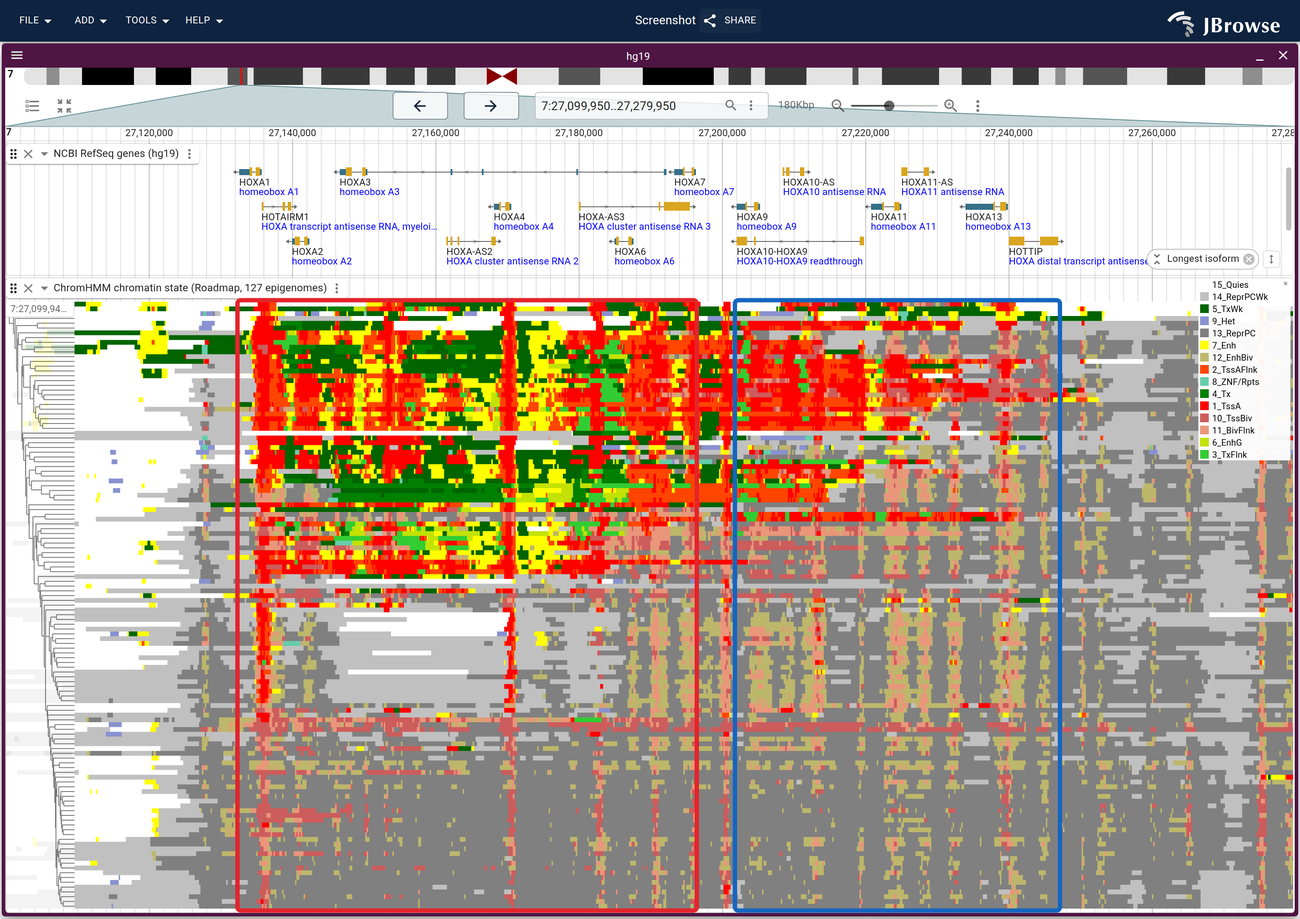
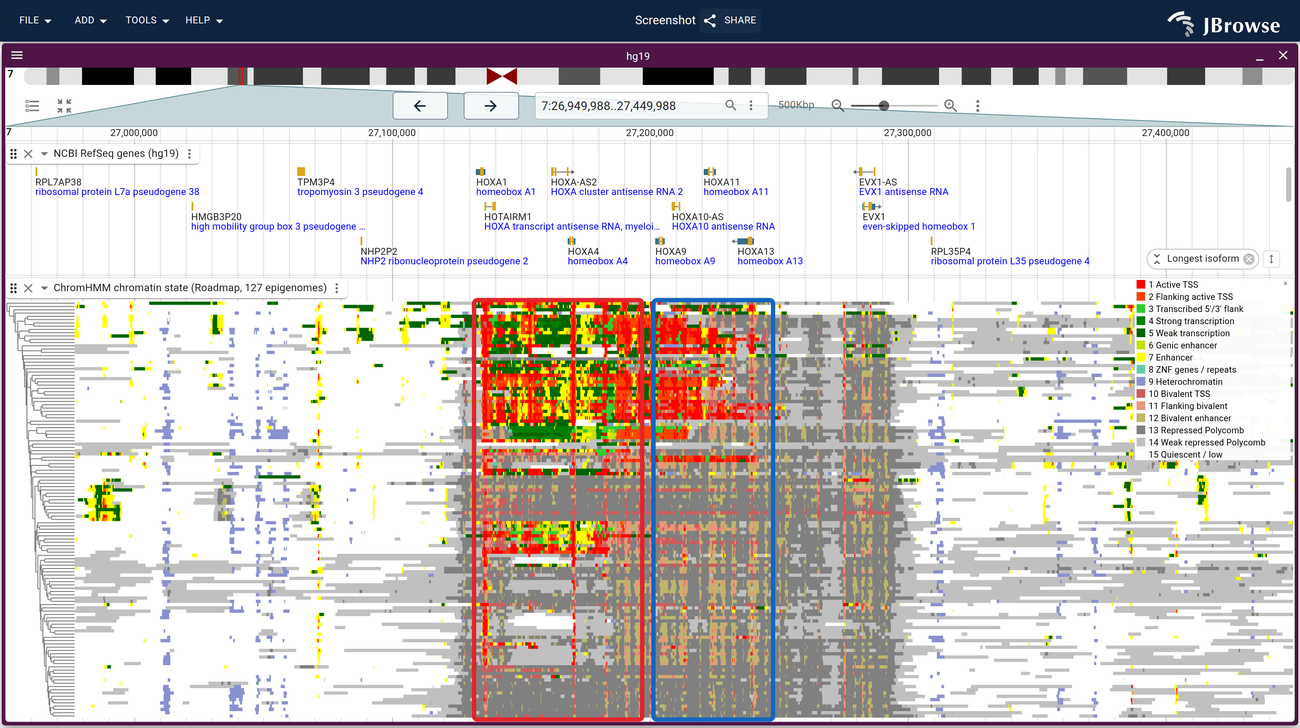
docs(website): rework both chromhmm figures on the reviewer's three asks
The 127-epigenome figure was denied as chaotic, with three specific asks, and
all three are here. Zoom: 180 kb -> 500 kb. Inside the cluster every row is fine
structure and there is no background to read it against, which is what made 127
rows of it look like noise; out here the two boxes are saturated rectangles with
~300 kb of quiescent pseudogene desert either side, so the domain has an edge.
Wider than this and the clustering starts separating rows on the flanks instead
of on HOXA. Legend: the Roadmap file names its states `15_Quies`, `14_ReprPCWk`,
`12_EnhBiv`, and the auto-derived key showed them as-is, ordered by how much of
each was on screen -- the display's `legend` slot now declares all fifteen
spelled out and in order. The colors were read out of the 705 MB bigBed by
ranged reads rather than assumed, so every swatch matches what is painted.
Height 700 -> 480: 127 rows fill whatever height they are given, so the extra
220px bought no detail.

The nine-cell-type figure was asked whether the cell types mean anything. They
do, and it is measurable off the same file. The anterior half is open in six of
the nine and shut in exactly the two blood lines and the stem line. The
posterior half is repressed in everything except HUVEC and HSMM -- endothelium
and skeletal muscle, the mesodermal pair, and the posterior genes carry a
trunk-and-limb address. So which half a row opens is that lineage's position.
[…]

diff --git a/website/src/lib/galleryLinks.generated.ts b/website/src/lib/galleryLinks.generated.ts
@@ -142,7 +142,7 @@ export const specSessionUrls: Record<string, string> = {
   "hg38_assembly_table": "?config=test_data/hg38_only.json&session=spec-%7B%22views%22%3A%5B%5D%7D&sessionName=Screenshot&adminKey=admin1234",
   "default_session_form": "?config=test_data/empty.json&session=spec-%7B%22views%22%3A%5B%5D%7D&sessionName=Screenshot&adminKey=admin1234",
   "config_not_found": "",
-  "chromhmm": "?config=test_data/config_demo.json&session=spec-%7B%22views%22%3A%5B%7B%22type%22%3A%22LinearGenomeView%22%2C%22assembly%22%3A%22hg19%22%2C%22loc%22%3A%22chr7%3A27%2C100%2C000-27%2C280%2C000%22%2C%22tracks%22%3A%5B%7B%22trackId%22%3A%22ncbi_gff_hg19%22%2C%22type%22%3A%22LinearBasicDisplay%22%2C%22showDescriptions%22%3Afalse%2C%22height%22%3A120%7D%2C%7B%22trackId%22%3A%22roadmap_chromhmm_multirow_hg19%22%2C%22type%22%3A%22LinearMultiRowFeatureDisplay%22%2C%22runClustering%22%3Atrue%2C%22height%22%3A700%7D%5D%7D%5D%7D&sessionName=Screenshot",
+  "chromhmm": "?config=test_data/config_demo.json&session=spec-%7B%22views%22%3A%5B%7B%22type%22%3A%22LinearGenomeView%22%2C%22assembly%22%3A%22hg19%22%2C%22loc%22%3A%22chr7%3A26%2C950%2C000-27%2C450%2C000%22%2C%22tracks%22%3A%5B%7B%22trackId%22%3A%22ncbi_gff_hg19%22%2C%22type%22%3A%22LinearBasicDisplay%22%2C%22showDescriptions%22%3Afalse%2C%22height%22%3A120%7D%2C%7B%22trackId%22%3A%22roadmap_chromhmm_multirow_hg19%22%2C%22type%22%3A%22LinearMultiRowFeatureDisplay%22%2C%22runClustering%22%3Atrue%2C%22height%22%3A480%7D%5D%7D%5D%7D&sessionName=Screenshot",
   "chromhmm_hoxa_9celltype": "?config=test_data/config_demo.json&session=spec-%7B%22views%22%3A%5B%7B%22type%22%3A%22LinearGenomeView%22%2C%22assembly%22%3A%22hg19%22%2C%22loc%22%3A%22chr7%3A27%2C050%2C000-27%2C300%2C000%22%2C%22tracks%22%3A%5B%7B%22trackId%22%3A%22ncbi_gff_hg19%22%2C%22type%22%3A%22LinearBasicDisplay%22%2C%22showDescriptions%22%3Afalse%2C%22height%22%3A140%7D%2C%7B%22trackId%22%3A%22broad_chromhmm_multirow_hg19%22%2C%22type%22%3A%22LinearMultiRowFeatureDisplay%22%2C%22height%22%3A360%7D%5D%7D%5D%7D&sessionName=Screenshot",
   "multirow/display_types_menu": "?config=test_data/config_demo.json&session=spec-%7B%22sessionTracks%22%3A%5B%7B%22type%22%3A%22FeatureTrack%22%2C%22trackId%22%3A%22rmsk_hg38_ucsc%22%2C%22name%22%3A%22RepeatMasker%22%2C%22assemblyNames%22%3A%5B%22hg38%22%5D%2C%22adapter%22%3A%7B%22type%22%3A%22BedTabixAdapter%22%2C%22bedGzLocation%22%3A%7B%22uri%22%3A%22https%3A%2F%2Fjbrowse.org%2Fucsc%2Fhg38%2Frmsk.bed.gz%22%2C%22locationType%22%3A%22UriLocation%22%7D%2C%22index%22%3A%7B%22indexType%22%3A%22CSI%22%2C%22location%22%3A%7B%22uri%22%3A%22https%3A%2F%2Fjbrowse.org%2Fucsc%2Fhg38%2Frmsk.bed.gz.csi%22%2C%22locationType%22%3A%22UriLocation%22%7D%7D%7D%7D%5D%2C%22views%22%3A%5B%7B%22type%22%3A%22LinearGenomeView%22%2C%22assembly%22%3A%22hg38%22%2C%22loc%22%3A%22chr17%3A45%2C700%2C000-45%2C750%2C000%22%2C%22tracks%22%3A%5B%22rmsk_hg38_ucsc%22%5D%7D%5D%7D&sessionName=Screenshot",
   "methylation/arabidopsis_wgbs_contexts": "?config=test_data/arabidopsis_methylation/config_emseq_bisulfite.json&session=spec-%7B%22sessionTracks%22%3A%5B%7B%22type%22%3A%22AlignmentsTrack%22%2C%22trackId%22%3A%22arabidopsis_wgbs_cg%22%2C%22name%22%3A%22Per-read%20WGBS%20%E2%80%94%20CpG%20context%22%2C%22assemblyNames%22%3A%5B%22arabidopsis%22%5D%2C%22adapter%22%3A%7B%22type%22%3A%22CramAdapter%22%2C%22uri%22%3A%22https%3A%2F%2Fjbrowse.org%2Fdemos%2Fbisulfite%2Farabidopsis_wgbs_bisulfite.cram%22%7D%7D%2C%7B%22type%22%3A%22AlignmentsTrack%22%2C%22trackId%22%3A%22arabidopsis_wgbs_chg%22%2C%22name%22%3A%22Per-read%20WGBS%20%E2%80%94%20CHG%20context%22%2C%22assemblyNames%22%3A%5B%22arabidopsis%22%5D%2C%22adapter%22%3A%7B%22type%22%3A%22CramAdapter%22%2C%22uri%22%3A%22https%3A%2F%2Fjbrowse.org%2Fdemos%2Fbisulfite%2Farabidopsis_wgbs_bisulfite.cram%22%7D%7D%2C%7B%22type%22%3A%22AlignmentsTrack%22%2C%22trackId%22%3A%22arabidopsis_wgbs_chh%22%2C%22name%22%3A%22Per-read%20WGBS%20%E2%80%94%20CHH%20context%22%2C%22assemblyNames%22%3A%5B%22arabidopsis%22%5D%2C%22adapter%22%3A%7B%22type%22%3A%22CramAdapter%22%2C%22uri%22%3A%22https%3A%2F%2Fjbrowse.org%2Fdemos%2Fbisulfite%2Farabidopsis_wgbs_bisulfite.cram%22%7D%7D%5D%2C%22views%22%3A%5B%7B%22type%22%3A%22LinearGenomeView%22%2C%22assembly%22%3A%22arabidopsis%22%2C%22loc%22%3A%22NC_003070.9%3A4%2C398%2C000-4%2C412%2C000%22%2C%22tracks%22%3A%5B%7B%22trackId%22%3A%22arabidopsis_genes%22%7D%2C%7B%22trackId%22%3A%22arabidopsis_methyldackel%22%2C%22type%22%3A%22MultiLinearWiggleDisplay%22%2C%22defaultRendering%22%3A%22multirowxy%22%2C%22minScore%22%3A0%2C%22maxScore%22%3A100%2C%22height%22%3A170%7D%2C%7B%22trackId%22%3A%22arabidopsis_wgbs_cg%22%2C%22type%22%3A%22LinearAlignmentsDisplay%22%2C%22colorBy%22%3A%7B%22type%22%3A%22bisulfite%22%2C%22modifications%22%3A%7B%22cytosineContext%22%3A%22CG%22%7D%7D%2C%22showCoverage%22%3Afalse%2C%22heightMode%22%3A%22fixed%22%2C%22featureHeight%22%3A3%2C%22featureSpacing%22%3A0%2C%22height%22%3A90%7D%2C%7B%22trackId%22%3A%22arabidopsis_wgbs_chg%22%2C%22type%22%3A%22LinearAlignmentsDisplay%22%2C%22colorBy%22%3A%7B%22type%22%3A%22bisulfite%22%2C%22modifications%22%3A%7B%22cytosineContext%22%3A%22CHG%22%7D%7D%2C%22showCoverage%22%3Afalse%2C%22heightMode%22%3A%22fixed%22%2C%22featureHeight%22%3A3%2C%22featureSpacing%22%3A0%2C%22height%22%3A90%7D%2C%7B%22trackId%22%3A%22arabidopsis_wgbs_chh%22%2C%22type%22%3A%22LinearAlignmentsDisplay%22%2C%22colorBy%22%3A%7B%22type%22%3A%22bisulfite%22%2C%22modifications%22%3A%7B%22cytosineContext%22%3A%22CHH%22%7D%7D%2C%22showCoverage%22%3Afalse%2C%22heightMode%22%3A%22fixed%22%2C%22featureHeight%22%3A3%2C%22featureSpacing%22%3A0%2C%22height%22%3A90%7D%5D%7D%5D%7D&sessionName=Screenshot",
@@ -216,7 +216,7 @@ export const specSessionUrls: Record<string, string> = {
   "trio-hapibd-painting": "?config=test_data/config_demo.json&session=spec-%7B%22views%22%3A%5B%7B%22type%22%3A%22LinearGenomeView%22%2C%22assembly%22%3A%22hg38%22%2C%22loc%22%3A%22chr1%3A1-248%2C956%2C422%22%2C%22tracks%22%3A%5B%7B%22trackId%22%3A%22HG02024_VN049_KHVTrio.chr1.hapibd%22%2C%22type%22%3A%22LinearMultiRowFeatureDisplay%22%2C%22height%22%3A120%7D%5D%7D%5D%7D&sessionName=Screenshot",
   "trio-crossover-paternal": "?config=test_data/config_demo.json&session=spec-%7B%22views%22%3A%5B%7B%22type%22%3A%22LinearGenomeView%22%2C%22assembly%22%3A%22hg38%22%2C%22loc%22%3A%22chr1%3A29%2C497%2C418-29%2C897%2C418%22%2C%22tracks%22%3A%5B%7B%22trackId%22%3A%22HG02024_VN049_KHVTrio.chr1.hapibd%22%2C%22type%22%3A%22LinearMultiRowFeatureDisplay%22%2C%22subtreeFilter%22%3A%5B%22Father%20hap1%22%2C%22Father%20hap2%22%5D%7D%2C%7B%22trackId%22%3A%22HG02024_VN049_KHVTrio.chr1.vcf%22%2C%22type%22%3A%22LinearMultiSampleVariantDisplay%22%2C%22renderingMode%22%3A%22phased%22%2C%22height%22%3A260%2C%22layout%22%3A%5B%7B%22name%22%3A%22HG02024%20HP0%22%2C%22sampleName%22%3A%22HG02024%22%2C%22HP%22%3A0%2C%22label%22%3A%22Child%20hap1%22%7D%2C%7B%22name%22%3A%22HG02024%20HP1%22%2C%22sampleName%22%3A%22HG02024%22%2C%22HP%22%3A1%2C%22label%22%3A%22Child%20hap2%22%7D%2C%7B%22name%22%3A%22HG02025%20HP0%22%2C%22sampleName%22%3A%22HG02025%22%2C%22HP%22%3A0%2C%22label%22%3A%22Mother%20hap1%22%7D%2C%7B%22name%22%3A%22HG02025%20HP1%22%2C%22sampleName%22%3A%22HG02025%22%2C%22HP%22%3A1%2C%22label%22%3A%22Mother%20hap2%22%7D%2C%7B%22name%22%3A%22HG02026%20HP0%22%2C%22sampleName%22%3A%22HG02026%22%2C%22HP%22%3A0%2C%22label%22%3A%22Father%20hap1%22%7D%2C%7B%22name%22%3A%22HG02026%20HP1%22%2C%22sampleName%22%3A%22HG02026%22%2C%22HP%22%3A1%2C%22label%22%3A%22Father%20hap2%22%7D%5D%7D%5D%7D%5D%7D&sessionName=Screenshot",
   "trio-crossover-maternal": "?config=test_data/config_demo.json&session=spec-%7B%22views%22%3A%5B%7B%22type%22%3A%22LinearGenomeView%22%2C%22assembly%22%3A%22hg38%22%2C%22loc%22%3A%22chr1%3A55%2C553%2C613-55%2C953%2C613%22%2C%22tracks%22%3A%5B%7B%22trackId%22%3A%22HG02024_VN049_KHVTrio.chr1.hapibd%22%2C%22type%22%3A%22LinearMultiRowFeatureDisplay%22%2C%22subtreeFilter%22%3A%5B%22Mother%20hap1%22%2C%22Mother%20hap2%22%5D%7D%2C%7B%22trackId%22%3A%22HG02024_VN049_KHVTrio.chr1.vcf%22%2C%22type%22%3A%22LinearMultiSampleVariantDisplay%22%2C%22renderingMode%22%3A%22phased%22%2C%22height%22%3A260%2C%22layout%22%3A%5B%7B%22name%22%3A%22HG02024%20HP0%22%2C%22sampleName%22%3A%22HG02024%22%2C%22HP%22%3A0%2C%22label%22%3A%22Child%20hap1%22%7D%2C%7B%22name%22%3A%22HG02024%20HP1%22%2C%22sampleName%22%3A%22HG02024%22%2C%22HP%22%3A1%2C%22label%22%3A%22Child%20hap2%22%7D%2C%7B%22name%22%3A%22HG02025%20HP0%22%2C%22sampleName%22%3A%22HG02025%22%2C%22HP%22%3A0%2C%22label%22%3A%22Mother%20hap1%22%7D%2C%7B%22name%22%3A%22HG02025%20HP1%22%2C%22sampleName%22%3A%22HG02025%22%2C%22HP%22%3A1%2C%22label%22%3A%22Mother%20hap2%22%7D%2C%7B%22name%22%3A%22HG02026%20HP0%22%2C%22sampleName%22%3A%22HG02026%22%2C%22HP%22%3A0%2C%22label%22%3A%22Father%20hap1%22%7D%2C%7B%22name%22%3A%22HG02026%20HP1%22%2C%22sampleName%22%3A%22HG02026%22%2C%22HP%22%3A1%2C%22label%22%3A%22Father%20hap2%22%7D%5D%7D%5D%7D%5D%7D&sessionName=Screenshot",
-  "dog10k-wolfdog-ancestry": "?config=test_data/dog10k/config.json&session=spec-%7B%22views%22%3A%5B%7B%22type%22%3A%22LinearGenomeView%22%2C%22assembly%22%3A%22UU_Cfam_GSD_1.0%22%2C%22loc%22%3A%22chr1%3A1-123%2C556%2C469%22%2C%22highlight%22%3A%5B%22chr1%3A112%2C000%2C000-113%2C500%2C000%22%5D%2C%22tracks%22%3A%5B%7B%22trackId%22%3A%22dog10k_wolfdog_named%22%2C%22type%22%3A%22LinearMultiRowFeatureDisplay%22%2C%22height%22%3A700%7D%5D%7D%5D%7D&sessionName=Screenshot",
+  "dog10k-wolfdog-ancestry": "?config=test_data/dog10k/config.json&session=spec-%7B%22views%22%3A%5B%7B%22type%22%3A%22LinearGenomeView%22%2C%22assembly%22%3A%22UU_Cfam_GSD_1.0%22%2C%22loc%22%3A%22chr1%3A1-123%2C556%2C469%22%2C%22highlight%22%3A%5B%22chr1%3A112%2C000%2C000-113%2C500%2C000%22%5D%2C%22tracks%22%3A%5B%7B%22trackId%22%3A%22dog10k_wolfdog_named%22%2C%22type%22%3A%22LinearMultiRowFeatureDisplay%22%2C%22height%22%3A700%2C%22showRowSeparators%22%3Atrue%7D%5D%7D%5D%7D&sessionName=Screenshot",
   "dog10k-wolfdog-ancestry-clustered": "?config=test_data/dog10k/config.json&session=spec-%7B%22views%22%3A%5B%7B%22type%22%3A%22LinearGenomeView%22%2C%22assembly%22%3A%22UU_Cfam_GSD_1.0%22%2C%22loc%22%3A%22chr1%3A1-123%2C556%2C469%22%2C%22tracks%22%3A%5B%7B%22trackId%22%3A%22dog10k_wolfdog_ancestry%22%2C%22type%22%3A%22LinearMultiRowFeatureDisplay%22%2C%22height%22%3A1100%2C%22runClustering%22%3Atrue%7D%5D%7D%5D%7D&sessionName=Screenshot",
   "dog10k-wolfdog-block-genotypes": "?config=test_data/dog10k/config.json&session=spec-%7B%22views%22%3A%5B%7B%22type%22%3A%22LinearGenomeView%22%2C%22assembly%22%3A%22UU_Cfam_GSD_1.0%22%2C%22loc%22%3A%22chr1%3A112%2C000%2C000-113%2C500%2C000%22%2C%22tracks%22%3A%5B%7B%22trackId%22%3A%22canFam4_ncbi_refseq%22%2C%22type%22%3A%22LinearBasicDisplay%22%2C%22height%22%3A70%7D%2C%7B%22trackId%22%3A%22dog10k_wolfdog_named%22%2C%22type%22%3A%22LinearMultiRowFeatureDisplay%22%2C%22height%22%3A320%7D%2C%7B%22trackId%22%3A%22dog10k_wolfdog_block_genotypes%22%2C%22type%22%3A%22LinearMultiSampleVariantMatrixDisplay%22%2C%22renderingMode%22%3A%22phased%22%2C%22height%22%3A700%2C%22lineZoneHeight%22%3A55%2C%22layout%22%3A%5B%7B%22name%22%3A%22CLUPPT000001%20HP0%22%2C%22sampleName%22%3A%22CLUPPT000001%22%2C%22HP%22%3A0%2C%22label%22%3A%22Gray%20wolf%207%20hap1%22%2C%22color%22%3A%22%23E69F00%22%7D%2C%7B%22name%22%3A%22CLUPPT000001%20HP1%22%2C%22sampleName%22%3A%22CLUPPT000001%22%2C%22HP%22%3A1%2C%22label%22%3A%22Gray%20wolf%207%20hap2%22%2C%22color%22%3A%22%23E69F00%22%7D%2C%7B%22name%22%3A%22CLUPRU000003%20HP0%22%2C%22sampleName%22%3A%22CLUPRU000003%22%2C%22HP%22%3A0%2C%22label%22%3A%22Gray%20wolf%203%20hap1%22%2C%22color%22%3A%22%23E69F00%22%7D%2C%7B%22name%22%3A%22CLUPRU000003%20HP1%22%2C%22sampleName%22%3A%22CLUPRU000003%22%2C%22HP%22%3A1%2C%22label%22%3A%22Gray%20wolf%203%20hap2%22%2C%22color%22%3A%22%23E69F00%22%7D%2C%7B%22name%22%3A%22CLUPPT000002%20HP0%22%2C%22sampleName%22%3A%22CLUPPT000002%22%2C%22HP%22%3A0%2C%22label%22%3A%22Gray%20wolf%208%20hap1%22%2C%22color%22%3A%22%23E69F00%22%7D%2C%7B%22name%22%3A%22CLUPPT000002%20HP1%22%2C%22sampleName%22%3A%22CLUPPT000002%22%2C%22HP%22%3A1%2C%22label%22%3A%22Gray%20wolf%208%20hap2%22%2C%22color%22%3A%22%23E69F00%22%7D%2C%7B%22name%22%3A%22CLUPRU000001%20HP0%22%2C%22sampleName%22%3A%22CLUPRU000001%22%2C%22HP%22%3A0%2C%22label%22%3A%22Gray%20wolf%201%20hap1%22%2C%22color%22%3A%22%23E69F00%22%7D%2C%7B%22name%22%3A%22CLUPRU000001%20HP1%22%2C%22sampleName%22%3A%22CLUPRU000001%22%2C%22HP%22%3A1%2C%22label%22%3A%22Gray%20wolf%201%20hap2%22%2C%22color%22%3A%22%23E69F00%22%7D%2C%7B%22name%22%3A%22CLUPRU000002%20HP0%22%2C%22sampleName%22%3A%22CLUPRU000002%22%2C%22HP%22%3A0%2C%22label%22%3A%22Gray%20wolf%202%20hap1%22%2C%22color%22%3A%22%23E69F00%22%7D%2C%7B%22name%22%3A%22CLUPRU000002%20HP1%22%2C%22sampleName%22%3A%22CLUPRU000002%22%2C%22HP%22%3A1%2C%22label%22%3A%22Gray%20wolf%202%20hap2%22%2C%22color%22%3A%22%23E69F00%22%7D%2C%7B%22name%22%3A%22CLUPRU000004%20HP0%22%2C%22sampleName%22%3A%22CLUPRU000004%22%2C%22HP%22%3A0%2C%22label%22%3A%22Gray%20wolf%204%20hap1%22%2C%22color%22%3A%22%23E69F00%22%7D%2C%7B%22name%22%3A%22CLUPRU000004%20HP1%22%2C%22sampleName%22%3A%22CLUPRU000004%22%2C%22HP%22%3A1%2C%22label%22%3A%22Gray%20wolf%204%20hap2%22%2C%22color%22%3A%22%23E69F00%22%7D%2C%7B%22name%22%3A%22CLUPSE000001%20HP0%22%2C%22sampleName%22%3A%22CLUPSE000001%22%2C%22HP%22%3A0%2C%22label%22%3A%22Gray%20wolf%205%20hap1%22%2C%22color%22%3A%22%23E69F00%22%7D%2C%7B%22name%22%3A%22CLUPSE000001%20HP1%22%2C%22sampleName%22%3A%22CLUPSE000001%22%2C%22HP%22%3A1%2C%22label%22%3A%22Gray%20wolf%205%20hap2%22%2C%22color%22%3A%22%23E69F00%22%7D%2C%7B%22name%22%3A%22CLUPSE000002%20HP0%22%2C%22sampleName%22%3A%22CLUPSE000002%22%2C%22HP%22%3A0%2C%22label%22%3A%22Gray%20wolf%206%20hap1%22%2C%22color%22%3A%22%23E69F00%22%7D%2C%7B%22name%22%3A%22CLUPSE000002%20HP1%22%2C%22sampleName%22%3A%22CLUPSE000002%22%2C%22HP%22%3A1%2C%22label%22%3A%22Gray%20wolf%206%20hap2%22%2C%22color%22%3A%22%23E69F00%22%7D%2C%7B%22name%22%3A%22SAAR000001%20HP0%22%2C%22sampleName%22%3A%22SAAR000001%22%2C%22HP%22%3A0%2C%22label%22%3A%22Saarloos%201%20hap1%22%2C%22color%22%3A%22%23D55E00%22%7D%2C%7B%22name%22%3A%22SAAR000001%20HP1%22%2C%22sampleName%22%3A%22SAAR000001%22%2C%22HP%22%3A1%2C%22label%22%3A%22Saarloos%201%20hap2%22%2C%22color%22%3A%22%23D55E00%22%7D%2C%7B%22name%22%3A%22SAAR000003%20HP0%22%2C%22sampleName%22%3A%22SAAR000003%22%2C%22HP%22%3A0%2C%22label%22%3A%22Saarloos%203%20hap1%22%2C%22color%22%3A%22%23D55E00%22%7D%2C%7B%22name%22%3A%22SAAR000003%20HP1%22%2C%22sampleName%22%3A%22SAAR000003%22%2C%22HP%22%3A1%2C%22label%22%3A%22Saarloos%203%20hap2%22%2C%22color%22%3A%22%23D55E00%22%7D%2C%7B%22name%22%3A%22SAAR000002%20HP0%22%2C%22sampleName%22%3A%22SAAR000002%22%2C%22HP%22%3A0%2C%22label%22%3A%22Saarloos%202%20hap1%22%2C%22color%22%3A%22%23D55E00%22%7D%2C%7B%22name%22%3A%22SAAR000002%20HP1%22%2C%22sampleName%22%3A%22SAAR000002%22%2C%22HP%22%3A1%2C%22label%22%3A%22Saarloos%202%20hap2%22%2C%22color%22%3A%22%23D55E00%22%7D%2C%7B%22name%22%3A%22SAAR000004%20HP0%22%2C%22sampleName%22%3A%22SAAR000004%22%2C%22HP%22%3A0%2C%22label%22%3A%22Saarloos%204%20hap1%22%2C%22color%22%3A%22%23D55E00%22%7D%2C%7B%22name%22%3A%22SAAR000004%20HP1%22%2C%22sampleName%22%3A%22SAAR000004%22%2C%22HP%22%3A1%2C%22label%22%3A%22Saarloos%204%20hap2%22%2C%22color%22%3A%22%23D55E00%22%7D%2C%7B%22name%22%3A%22CZEC000003%20HP0%22%2C%22sampleName%22%3A%22CZEC000003%22%2C%22HP%22%3A0%2C%22label%22%3A%22Czechoslovakian%203%20hap1%22%2C%22color%22%3A%22%23D55E00%22%7D%2C%7B%22name%22%3A%22CZEC000003%20HP1%22%2C%22sampleName%22%3A%22CZEC000003%22%2C%22HP%22%3A1%2C%22label%22%3A%22Czechoslovakian%203%20hap2%22%2C%22color%22%3A%22%23D55E00%22%7D%2C%7B%22name%22%3A%22SHIL000001%20HP0%22%2C%22sampleName%22%3A%22SHIL000001%22%2C%22HP%22%3A0%2C%22label%22%3A%22Shiloh%20Shepherd%20hap1%22%2C%22color%22%3A%22%23CC79A7%22%7D%2C%7B%22name%22%3A%22SHIL000001%20HP1%22%2C%22sampleName%22%3A%22SHIL000001%22%2C%22HP%22%3A1%2C%22label%22%3A%22Shiloh%20Shepherd%20hap2%22%2C%22color%22%3A%22%23CC79A7%22%7D%2C%7B%22name%22%3A%22CZEC000001%20HP0%22%2C%22sampleName%22%3A%22CZEC000001%22%2C%22HP%22%3A0%2C%22label%22%3A%22Czechoslovakian%201%20hap1%22%2C%22color%22%3A%22%23D55E00%22%7D%2C%7B%22name%22%3A%22CZEC000001%20HP1%22%2C%22sampleName%22%3A%22CZEC000001%22%2C%22HP%22%3A1%2C%22label%22%3A%22Czechoslovakian%201%20hap2%22%2C%22color%22%3A%22%23D55E00%22%7D%2C%7B%22name%22%3A%22CZEC000004%20HP0%22%2C%22sampleName%22%3A%22CZEC000004%22%2C%22HP%22%3A0%2C%22label%22%3A%22Czechoslovakian%204%20hap1%22%2C%22color%22%3A%22%23D55E00%22%7D%2C%7B%22name%22%3A%22CZEC000004%20HP1%22%2C%22sampleName%22%3A%22CZEC000004%22%2C%22HP%22%3A1%2C%22label%22%3A%22Czechoslovakian%204%20hap2%22%2C%22color%22%3A%22%23D55E00%22%7D%2C%7B%22name%22%3A%22THAI000009%20HP0%22%2C%22sampleName%22%3A%22THAI000009%22%2C%22HP%22%3A0%2C%22label%22%3A%22Thai%20Ridgeback%20hap1%22%2C%22color%22%3A%22%23999999%22%7D%2C%7B%22name%22%3A%22THAI000009%20HP1%22%2C%22sampleName%22%3A%22THAI000009%22%2C%22HP%22%3A1%2C%22label%22%3A%22Thai%20Ridgeback%20hap2%22%2C%22color%22%3A%22%23999999%22%7D%2C%7B%22name%22%3A%22CHOW000004%20HP0%22%2C%22sampleName%22%3A%22CHOW000004%22%2C%22HP%22%3A0%2C%22label%22%3A%22Chow%20Chow%20hap1%22%2C%22color%22%3A%22%23999999%22%7D%2C%7B%22name%22%3A%22CHOW000004%20HP1%22%2C%22sampleName%22%3A%22CHOW000004%22%2C%22HP%22%3A1%2C%22label%22%3A%22Chow%20Chow%20hap2%22%2C%22color%22%3A%22%23999999%22%7D%2C%7B%22name%22%3A%22CAUC000004%20HP0%22%2C%22sampleName%22%3A%22CAUC000004%22%2C%22HP%22%3A0%2C%22label%22%3A%22Caucasian%20Ovcharka%20hap1%22%2C%22color%22%3A%22%23999999%22%7D%2C%7B%22name%22%3A%22CAUC000004%20HP1%22%2C%22sampleName%22%3A%22CAUC000004%22%2C%22HP%22%3A1%2C%22label%22%3A%22Caucasian%20Ovcharka%20hap2%22%2C%22color%22%3A%22%23999999%22%7D%2C%7B%22name%22%3A%22GAFT000006%20HP0%22%2C%22sampleName%22%3A%22GAFT000006%22%2C%22HP%22%3A0%2C%22label%22%3A%22Great%20Anglo-French%20Tricolour%20Hound%20hap1%22%2C%22color%22%3A%22%23999999%22%7D%2C%7B%22name%22%3A%22GAFT000006%20HP1%22%2C%22sampleName%22%3A%22GAFT000006%22%2C%22HP%22%3A1%2C%22label%22%3A%22Great%20Anglo-French%20Tricolour%20Hound%20hap2%22%2C%22color%22%3A%22%23999999%22%7D%2C%7B%22name%22%3A%22KAIK000005%20HP0%22%2C%22sampleName%22%3A%22KAIK000005%22%2C%22HP%22%3A0%2C%22label%22%3A%22Kai%20Ken%20hap1%22%2C%22color%22%3A%22%23999999%22%7D%2C%7B%22name%22%3A%22KAIK000005%20HP1%22%2C%22sampleName%22%3A%22KAIK000005%22%2C%22HP%22%3A1%2C%22label%22%3A%22Kai%20Ken%20hap2%22%2C%22color%22%3A%22%23999999%22%7D%2C%7B%22name%22%3A%22ANAT000007%20HP0%22%2C%22sampleName%22%3A%22ANAT000007%22%2C%22HP%22%3A0%2C%22label%22%3A%22Anatolian%20Shepherd%20Dog%20hap1%22%2C%22color%22%3A%22%23999999%22%7D%2C%7B%22name%22%3A%22ANAT000007%20HP1%22%2C%22sampleName%22%3A%22ANAT000007%22%2C%22HP%22%3A1%2C%22label%22%3A%22Anatolian%20Shepherd%20Dog%20hap2%22%2C%22color%22%3A%22%23999999%22%7D%2C%7B%22name%22%3A%22TMSK000001%20HP0%22%2C%22sampleName%22%3A%22TMSK000001%22%2C%22HP%22%3A0%2C%22label%22%3A%22Tamaskan%20hap1%22%2C%22color%22%3A%22%23CC79A7%22%7D%2C%7B%22name%22%3A%22TMSK000001%20HP1%22%2C%22sampleName%22%3A%22TMSK000001%22%2C%22HP%22%3A1%2C%22label%22%3A%22Tamaskan%20hap2%22%2C%22color%22%3A%22%23CC79A7%22%7D%2C%7B%22name%22%3A%22SPEI000006%20HP0%22%2C%22sampleName%22%3A%22SPEI000006%22%2C%22HP%22%3A0%2C%22label%22%3A%22Chinese%20Shar-Pei%20hap1%22%2C%22color%22%3A%22%23999999%22%7D%2C%7B%22name%22%3A%22SPEI000006%20HP1%22%2C%22sampleName%22%3A%22SPEI000006%22%2C%22HP%22%3A1%2C%22label%22%3A%22Chinese%20Shar-Pei%20hap2%22%2C%22color%22%3A%22%23999999%22%7D%2C%7B%22name%22%3A%22KARS000006%20HP0%22%2C%22sampleName%22%3A%22KARS000006%22%2C%22HP%22%3A0%2C%22label%22%3A%22Kars%20hap1%22%2C%22color%22%3A%22%23999999%22%7D%2C%7B%22name%22%3A%22KARS000006%20HP1%22%2C%22sampleName%22%3A%22KARS000006%22%2C%22HP%22%3A1%2C%22label%22%3A%22Kars%20hap2%22%2C%22color%22%3A%22%23999999%22%7D%2C%7B%22name%22%3A%22CZEC000002%20HP0%22%2C%22sampleName%22%3A%22CZEC000002%22%2C%22HP%22%3A0%2C%22label%22%3A%22Czechoslovakian%202%20hap1%22%2C%22color%22%3A%22%23D55E00%22%7D%2C%7B%22name%22%3A%22CZEC000002%20HP1%22%2C%22sampleName%22%3A%22CZEC000002%22%2C%22HP%22%3A1%2C%22label%22%3A%22Czechoslovakian%202%20hap2%22%2C%22color%22%3A%22%23D55E00%22%7D%2C%7B%22name%22%3A%22OLGS000001%20HP0%22%2C%22sampleName%22%3A%22OLGS000001%22%2C%22HP%22%3A0%2C%22label%22%3A%22Old%20German%20Shepherd%201%20hap1%22%2C%22color%22%3A%22%230072B2%22%7D%2C%7B%22name%22%3A%22OLGS000001%20HP1%22%2C%22sampleName%22%3A%22OLGS000001%22%2C%22HP%22%3A1%2C%22label%22%3A%22Old%20German%20Shepherd%201%20hap2%22%2C%22color%22%3A%22%230072B2%22%7D%2C%7B%22name%22%3A%22WSSD000003%20HP0%22%2C%22sampleName%22%3A%22WSSD000003%22%2C%22HP%22%3A0%2C%22label%22%3A%22White%20Swiss%20Shepherd%201%20hap1%22%2C%22color%22%3A%22%230072B2%22%7D%2C%7B%22name%22%3A%22WSSD000003%20HP1%22%2C%22sampleName%22%3A%22WSSD000003%22%2C%22HP%22%3A1%2C%22label%22%3A%22White%20Swiss%20Shepherd%201%20hap2%22%2C%22color%22%3A%22%230072B2%22%7D%2C%7B%22name%22%3A%22GRSD000002%20HP0%22%2C%22sampleName%22%3A%22GRSD000002%22%2C%22HP%22%3A0%2C%22label%22%3A%22German%20Shepherd%20hap1%22%2C%22color%22%3A%22%230072B2%22%7D%2C%7B%22name%22%3A%22GRSD000002%20HP1%22%2C%22sampleName%22%3A%22GRSD000002%22%2C%22HP%22%3A1%2C%22label%22%3A%22German%20Shepherd%20hap2%22%2C%22color%22%3A%22%230072B2%22%7D%2C%7B%22name%22%3A%22OLGS000002%20HP0%22%2C%22sampleName%22%3A%22OLGS000002%22%2C%22HP%22%3A0%2C%22label%22%3A%22Old%20German%20Shepherd%202%20hap1%22%2C%22color%22%3A%22%230072B2%22%7D%2C%7B%22name%22%3A%22OLGS000002%20HP1%22%2C%22sampleName%22%3A%22OLGS000002%22%2C%22HP%22%3A1%2C%22label%22%3A%22Old%20German%20Shepherd%202%20hap2%22%2C%22color%22%3A%22%230072B2%22%7D%2C%7B%22name%22%3A%22OLGS000003%20HP0%22%2C%22sampleName%22%3A%22OLGS000003%22%2C%22HP%22%3A0%2C%22label%22%3A%22Old%20German%20Shepherd%203%20hap1%22%2C%22color%22%3A%22%230072B2%22%7D%2C%7B%22name%22%3A%22OLGS000003%20HP1%22%2C%22sampleName%22%3A%22OLGS000003%22%2C%22HP%22%3A1%2C%22label%22%3A%22Old%20German%20Shepherd%203%20hap2%22%2C%22color%22%3A%22%230072B2%22%7D%2C%7B%22name%22%3A%22WSSD000004%20HP0%22%2C%22sampleName%22%3A%22WSSD000004%22%2C%22HP%22%3A0%2C%22label%22%3A%22White%20Swiss%20Shepherd%202%20hap1%22%2C%22color%22%3A%22%230072B2%22%7D%2C%7B%22name%22%3A%22WSSD000004%20HP1%22%2C%22sampleName%22%3A%22WSSD000004%22%2C%22HP%22%3A1%2C%22label%22%3A%22White%20Swiss%20Shepherd%202%20hap2%22%2C%22color%22%3A%22%230072B2%22%7D%5D%2C%22featureColor%22%3A%22%23E69F00%22%2C%22jexlFilters%22%3A%5B%22jexl%3Aget(feature%2C'INFO').AF_wolf%5B0%5D%20%3E%3D%200.8%20%26%26%20get(feature%2C'INFO').AF_dog%5B0%5D%20%3C%3D%200.15%22%5D%7D%5D%7D%5D%7D&sessionName=Screenshot",
   "dog10k-nhej1-cea-deletion": "?config=test_data/dog10k/config.json&session=spec-%7B%22views%22%3A%5B%7B%22type%22%3A%22LinearGenomeView%22%2C%22assembly%22%3A%22UU_Cfam_GSD_1.0%22%2C%22loc%22%3A%22chr37%3A25%2C510%2C000-25%2C596%2C000%22%2C%22tracks%22%3A%5B%7B%22trackId%22%3A%22canFam4_ncbi_refseq%22%2C%22type%22%3A%22LinearBasicDisplay%22%2C%22height%22%3A110%7D%2C%7B%22trackId%22%3A%22dog10k_nhej1_svs%22%2C%22type%22%3A%22LinearMultiSampleVariantDisplay%22%2C%22height%22%3A560%2C%22layout%22%3A%5B%7B%22name%22%3A%22COLL000001%22%2C%22label%22%3A%22Collie%201%22%2C%22color%22%3A%22%230072B2%22%7D%2C%7B%22name%22%3A%22COLL000002%22%2C%22label%22%3A%22Collie%202%22%2C%22color%22%3A%22%230072B2%22%7D%2C%7B%22name%22%3A%22COLL000003%22%2C%22label%22%3A%22Collie%203%22%2C%22color%22%3A%22%230072B2%22%7D%2C%7B%22name%22%3A%22COLL000004%22%2C%22label%22%3A%22Collie%204%22%2C%22color%22%3A%22%230072B2%22%7D%2C%7B%22name%22%3A%22COLL000005%22%2C%22label%22%3A%22Collie%205%22%2C%22color%22%3A%22%230072B2%22%7D%2C%7B%22name%22%3A%22COLL000006%22%2C%22label%22%3A%22Collie%206%22%2C%22color%22%3A%22%230072B2%22%7D%2C%7B%22name%22%3A%22COLL000007%22%2C%22label%22%3A%22Collie%207%22%2C%22color%22%3A%22%230072B2%22%7D%2C%7B%22name%22%3A%22COLL000008%22%2C%22label%22%3A%22Collie%208%22%2C%22color%22%3A%22%230072B2%22%7D%2C%7B%22name%22%3A%22COLL000009%22%2C%22label%22%3A%22Collie%209%22%2C%22color%22%3A%22%230072B2%22%7D%2C%7B%22name%22%3A%22COLL000010%22%2C%22label%22%3A%22Collie%2010%22%2C%22color%22%3A%22%230072B2%22%7D%2C%7B%22name%22%3A%22COLL000011%22%2C%22label%22%3A%22Collie%2011%22%2C%22color%22%3A%22%230072B2%22%7D%2C%7B%22name%22%3A%22COLL000012%22%2C%22label%22%3A%22Collie%2012%22%2C%22color%22%3A%22%230072B2%22%7D%2C%7B%22name%22%3A%22COLL000013%22%2C%22label%22%3A%22Collie%2013%22%2C%22color%22%3A%22%230072B2%22%7D%2C%7B%22name%22%3A%22SSHP000001%22%2C%22label%22%3A%22Shetland%20Sheepdog%201%22%2C%22color%22%3A%22%230072B2%22%7D%2C%7B%22name%22%3A%22SSHP000002%22%2C%22label%22%3A%22Shetland%20Sheepdog%202%22%2C%22color%22%3A%22%230072B2%22%7D%2C%7B%22name%22%3A%22SSHP000003%22%2C%22label%22%3A%22Shetland%20Sheepdog%203%22%2C%22color%22%3A%22%230072B2%22%7D%2C%7B%22name%22%3A%22SSHP000004%22%2C%22label%22%3A%22Shetland%20Sheepdog%204%22%2C%22color%22%3A%22%230072B2%22%7D%2C%7B%22name%22%3A%22LANC000001%22%2C%22label%22%3A%22Lancashire%20Heeler%201%22%2C%22color%22%3A%22%230072B2%22%7D%2C%7B%22name%22%3A%22LANC000002%22%2C%22label%22%3A%22Lancashire%20Heeler%202%22%2C%22color%22%3A%22%230072B2%22%7D%2C%7B%22name%22%3A%22LANC000003%22%2C%22label%22%3A%22Lancashire%20Heeler%203%22%2C%22color%22%3A%22%230072B2%22%7D%2C%7B%22name%22%3A%22LANC000004%22%2C%22label%22%3A%22Lancashire%20Heeler%204%22%2C%22color%22%3A%22%230072B2%22%7D%2C%7B%22name%22%3A%22SKWH000001%22%2C%22label%22%3A%22Silken%20Windhound%201%22%2C%22color%22%3A%22%230072B2%22%7D%2C%7B%22name%22%3A%22SKWH000002%22%2C%22label%22%3A%22Silken%20Windhound%202%22%2C%22color%22%3A%22%230072B2%22%7D%2C%7B%22name%22%3A%22AUSS000001%22%2C%22label%22%3A%22Australian%20Shepherd%201%22%2C%22color%22%3A%22%23999999%22%7D%2C%7B%22name%22%3A%22AUSS000002%22%2C%22label%22%3A%22Australian%20Shepherd%202%22%2C%22color%22%3A%22%23999999%22%7D%2C%7B%22name%22%3A%22AUSS000003%22%2C%22label%22%3A%22Australian%20Shepherd%203%22%2C%22color%22%3A%22%23999999%22%7D%2C%7B%22name%22%3A%22GRSD000002%22%2C%22label%22%3A%22German%20Shepherd%201%22%2C%22color%22%3A%22%23999999%22%7D%2C%7B%22name%22%3A%22GRSD000003%22%2C%22label%22%3A%22German%20Shepherd%202%22%2C%22color%22%3A%22%23999999%22%7D%2C%7B%22name%22%3A%22LABR000001%22%2C%22label%22%3A%22Labrador%20Retriever%201%22%2C%22color%22%3A%22%23999999%22%7D%2C%7B%22name%22%3A%22LABR000002%22%2C%22label%22%3A%22Labrador%20Retriever%202%22%2C%22color%22%3A%22%23999999%22%7D%2C%7B%22name%22%3A%22LABR000003%22%2C%22label%22%3A%22Labrador%20Retriever%203%22%2C%22color%22%3A%22%23999999%22%7D%2C%7B%22name%22%3A%22LABR000004%22%2C%22label%22%3A%22Labrador%20Retriever%204%22%2C%22color%22%3A%22%23999999%22%7D%2C%7B%22name%22%3A%22CLUPGR000001%22%2C%22label%22%3A%22Wolf%201%22%2C%22color%22%3A%22%23E69F00%22%7D%2C%7B%22name%22%3A%22CLUPGR000002%22%2C%22label%22%3A%22Wolf%202%22%2C%22color%22%3A%22%23E69F00%22%7D%2C%7B%22name%22%3A%22CLUPGR000003%22%2C%22label%22%3A%22Wolf%203%22%2C%22color%22%3A%22%23E69F00%22%7D%2C%7B%22name%22%3A%22CLUPGR000004%22%2C%22label%22%3A%22Wolf%204%22%2C%22color%22%3A%22%23E69F00%22%7D%5D%2C%22jexlFilters%22%3A%5B%22jexl%3Aget(feature%2C'start')%20%3D%3D%2025574004%22%5D%7D%5D%7D%5D%7D&sessionName=Screenshot",

diff --git a/website/scripts/specs/ui.ts b/website/scripts/specs/ui.ts
@@ -2028,7 +2028,15 @@ export const uiSpecs: ScreenshotSpec[] = [
     // identity, and it is the same column boundary in every one of them.
     url: lgvSession(DEMO_CONFIG, {
       assembly: 'hg19',
-      loc: 'chr7:27,100,000-27,280,000',
+      // 500 kb rather than the cluster's own 180 kb. Inside the cluster every
+      // row is fine structure and the picture has no background to read it
+      // against, which is what made 127 rows of it look like noise. Out here
+      // the two boxes are saturated rectangles standing in ~300 kb of the
+      // pseudogene desert either side (RPL7AP38, HMGB3P20, NHP2P2, TPM3P4 to
+      // the left; RPL35P4 past EVX1 to the right), which is quiescent and pale
+      // in every row — so the domain has an edge. Wider than this and the
+      // clustering starts separating the rows on the flanks instead.
+      loc: 'chr7:26,950,000-27,450,000',
       tracks: [
         {
           trackId: 'ncbi_gff_hg19',
@@ -2045,7 +2053,10 @@ export const uiSpecs: ScreenshotSpec[] = [
           // the display puts them. Unclustered the same window is 127 rows of
           // scattered red with no block in it.
           runClustering: true,
-          height: 700,
+          // 480, not the config's 700: 127 rows fill whatever height they are
+          // given, so the extra 220px bought no detail, only more area of the
+          // same painting to take in at once.
+          height: 480,
         },
       ],
     }),
@@ -2089,7 +2100,7 @@ export const uiSpecs: ScreenshotSpec[] = [
     readyText: 'ChromHMM',
     readyTimeout: 120000,
     settleMs: 6000,
-    viewportHeight: 1060,
+    viewportHeight: 840,
   },
 
   // The nine-cell-type Broad ENCODE track at the HOXA cluster, which is the
@@ -2108,7 +2119,8 @@ export const uiSpecs: ScreenshotSpec[] = [
   // identity and leaves the rest under Polycomb; the break falls between HOXA7
   // and HOXA9 in every row that has one, which is what makes it a column in the
   // painting rather than nine unrelated patterns. Boxing the two domains says
-  // where to look; the caption says what the split means.
+  // where to look; the caption says what the split means. The three row labels
+  // below name the rows that are the exceptions to it.
   //
   // Both are anchored to the track and a locus, so they stay on the genes when
   // the window, the track height or the viewport width moves.
@@ -2179,6 +2191,55 @@ export const uiSpecs: ScreenshotSpec[] = [
         },
         dy: 20,
       },
+      // Three row labels, because the reviewer's question was what the NINE
+      // CELL TYPES mean and the boxes above only say where to look. Each sits
+      // at its own row's centre (row i of 9 -> (i+0.5)/9) so it reads as a label
+      // ON that row, and each is pushed into the flank beside the box it is
+      // about rather than over the painting.
+      //
+      // Measured off the file itself, per cell type over each box's span:
+      //   anterior  H1-hESC 55% Repressed + 30% Poised_Promoter, K562 73%
+      //             Repressed, GM12878 58% Heterochrom; the five differentiated
+      //             lines run 69-92% enhancer/promoter/transcription
+      //   posterior everything is Repressed EXCEPT HUVEC (37% Strong_Enhancer,
+      //             20% Active_Promoter) and HSMM (50% Active_Promoter)
+      //
+      // H1-hESC: the pluripotent line is the one that is neither on nor off.
+      // Its magenta is 3_Poised_Promoter over both halves, which is what a
+      // bivalent HOX cluster looks like before a lineage has an address. Left of
+      // the anterior box, because it is about the whole row.
+      {
+        type: 'text',
+        text: 'H1-hESC: poised, not shut',
+        fontSize: 16,
+        textAlign: 'end',
+        anchor: {
+          track: 'broad_chromhmm_multirow_hg19',
+          locus: 'chr7:27,132,613',
+          alignX: 'left',
+          fracY: 1.5 / 9,
+        },
+        dx: -6,
+      },
+      // HUVEC and HSMM: endothelium and skeletal muscle, the two mesoderm lines
+      // and the only two that open the posterior half as well. RIGHT of the
+      // posterior box — in the left flank the same label sat next to the
+      // anterior one and read as pointing at it. The right flank is uniform
+      // 12_Repressed grey in all nine rows, so nothing is hidden by covering it.
+      ...([4, 6] as const).map(row => ({
+        type: 'text' as const,
+        text: 'posterior half open',
+        fontSize: 16,
+        textAlign: 'start' as const,
+        color: '#1565c0',
+        anchor: {
+          track: 'broad_chromhmm_multirow_hg19',
+          locus: 'chr7:27,246,878',
+          alignX: 'right' as const,
+          fracY: (row + 0.5) / 9,
+        },
+        dx: 6,
+      })),
     ],
     readyText: 'ChromHMM',
     readyTimeout: 60000,

diff --git a/website/docs/tutorials/chromhmm.md b/website/docs/tutorials/chromhmm.md
@@ -34,7 +34,7 @@ instead we merge them into a single file with an extra `cellType` column and let
 the multi-row feature display split that one track back into a labeled sub-row
 per cell type. Every row shares one config, one adapter, and one fetch.
 
-<Figure src="/img/chromhmm_hoxa_9celltype.png" caption="The nine UCSC ENCODE Broad epigenomes over the HOXA cluster as a single multi-row track, one row per cell type, with hg19 RefSeq genes above. Boxed: the anterior genes HOXA1 to HOXA7, and the posterior genes HOXA9 to HOXA13. The lines that open the cluster open the anterior box and hold the posterior box repressed, and they break at the same place; H1-hESC, K562 and GM12878 hold both boxes in poised and repressed states throughout."/>
+<Figure src="/img/chromhmm_hoxa_9celltype.png" caption="The nine UCSC ENCODE Broad epigenomes over the HOXA cluster as a single multi-row track, one row per cell type, with hg19 RefSeq genes above. Boxed: the anterior genes HOXA1 to HOXA7, and the posterior genes HOXA9 to HOXA13. Every row except the two blood lines (GM12878, K562) and the embryonic stem line opens the anterior box in promoter red, enhancer orange and transcription green, and stops at the box's right edge. Labeled: the two rows that carry on into the posterior box, HUVEC and HSMM, and H1-hESC, which holds both halves in the magenta poised state rather than shutting them."/>
 
 HOXA is the window the build script opens on because the painting there has a
 structure to find rather than just a lot of color. The genes are transcribed in
@@ -43,6 +43,15 @@ position along the body axis and holds the rest under Polycomb. Most of the rows
 that open the cluster at all stop between HOXA7 and HOXA9, which is what makes
 the change read as a column across the rows rather than as nine unrelated
 patterns.
+
+Which rows those are is the point of picking nine cell types rather than one.
+The posterior genes carry a trunk-and-limb address, and the two rows that open
+them here are the endothelial and skeletal-muscle lines — HUVEC and HSMM, the
+mesodermal pair. The keratinocyte, lung-fibroblast and mammary lines stop at
+HOXA7. GM12878 and K562 are blood, and hold the whole cluster shut. H1-hESC is
+pluripotent and has no address yet, so its rows are neither: the magenta is
+`3_Poised_Promoter`, an active promoter mark sitting on a repressed cluster,
+which is the bivalent state HOX clusters are held in before a lineage commits.
 
 ## What the merged file holds
 
@@ -175,7 +184,12 @@ The same recipe scales to the
 a longer `rowOrder`. Because the multi-row display fetches and lays out one
 file, 127 epigenomes is still one track, one adapter, one fetch, not 127 tracks.
 
-<Figure src="/img/chromhmm.png" caption="The same display at 127 epigenomes instead of nine, over the same HOXA window and the same two boxes, with the rows ordered by Cluster rows by similarity rather than by config and the dendrogram in the sidebar. Each row is one epigenome, thin enough that the painting reads as a heatmap of state rather than as blocks. The two top-level clades separate the epigenomes carrying active promoter, enhancer and transcription across the anterior box from those holding both boxes in Polycomb-repressed and bivalent states."/>
+This track also fills in the `legend` slot, because the Roadmap file's state
+names are mnemonics (`12_EnhBiv`, `14_ReprPCWk`) and the auto-derived key would
+show them as they are. Fifteen `{label, color}` entries spell them out and fix
+their order at 1 to 15 rather than by how much of each is on screen.
+
+<Figure src="/img/chromhmm.png" caption="The same display at 127 epigenomes instead of nine, over the same two boxes with 500 kb of flank, and with the rows ordered by Cluster rows by similarity rather than by config so the dendrogram is in the sidebar. Each row is one epigenome, thin enough that the painting reads as a heatmap of state rather than as blocks. The clustering splits the rows into an upper block that opens the cluster — red active TSS, yellow enhancer, green transcription — and a lower block holding both boxes in grey Polycomb, speckled olive where the same bases are bivalent. Either side of the boxes is quiescent in every row, which is the edge of the domain."/>
 
 At that row count `rowOrder` is 127 lines of config whose only job is to keep
 related tissues adjacent, which is exactly what **Cluster rows by similarity**

diff --git a/website/docs/user_guides/multirow_feature_track.md b/website/docs/user_guides/multirow_feature_track.md
@@ -16,7 +16,7 @@ rather than one track per sample.
 Any BED, BigBed, GFF3, or GTF track can be switched to it from the track menu:
 **Display types → Multi-row feature display (painting)**.
 
-<Figure src="/img/chromhmm.png" caption="Roadmap Epigenomics 15-state ChromHMM across 127 epigenomes as one multi-row track, with NCBI RefSeq genes above. Each row is one epigenome and each block takes the state color the file already carries; the state key on the right is derived from the data." />
+<Figure src="/img/chromhmm.png" caption="Roadmap Epigenomics 15-state ChromHMM across 127 epigenomes as one multi-row track, with NCBI RefSeq genes above. Each row is one epigenome and each block takes the state color the file already carries; the state key on the right is the display's legend slot, spelling out the mnemonics the file names its states with. Boxed: the anterior and posterior halves of the HOXA cluster." />
 
 ## Turning a feature track into rows
 
